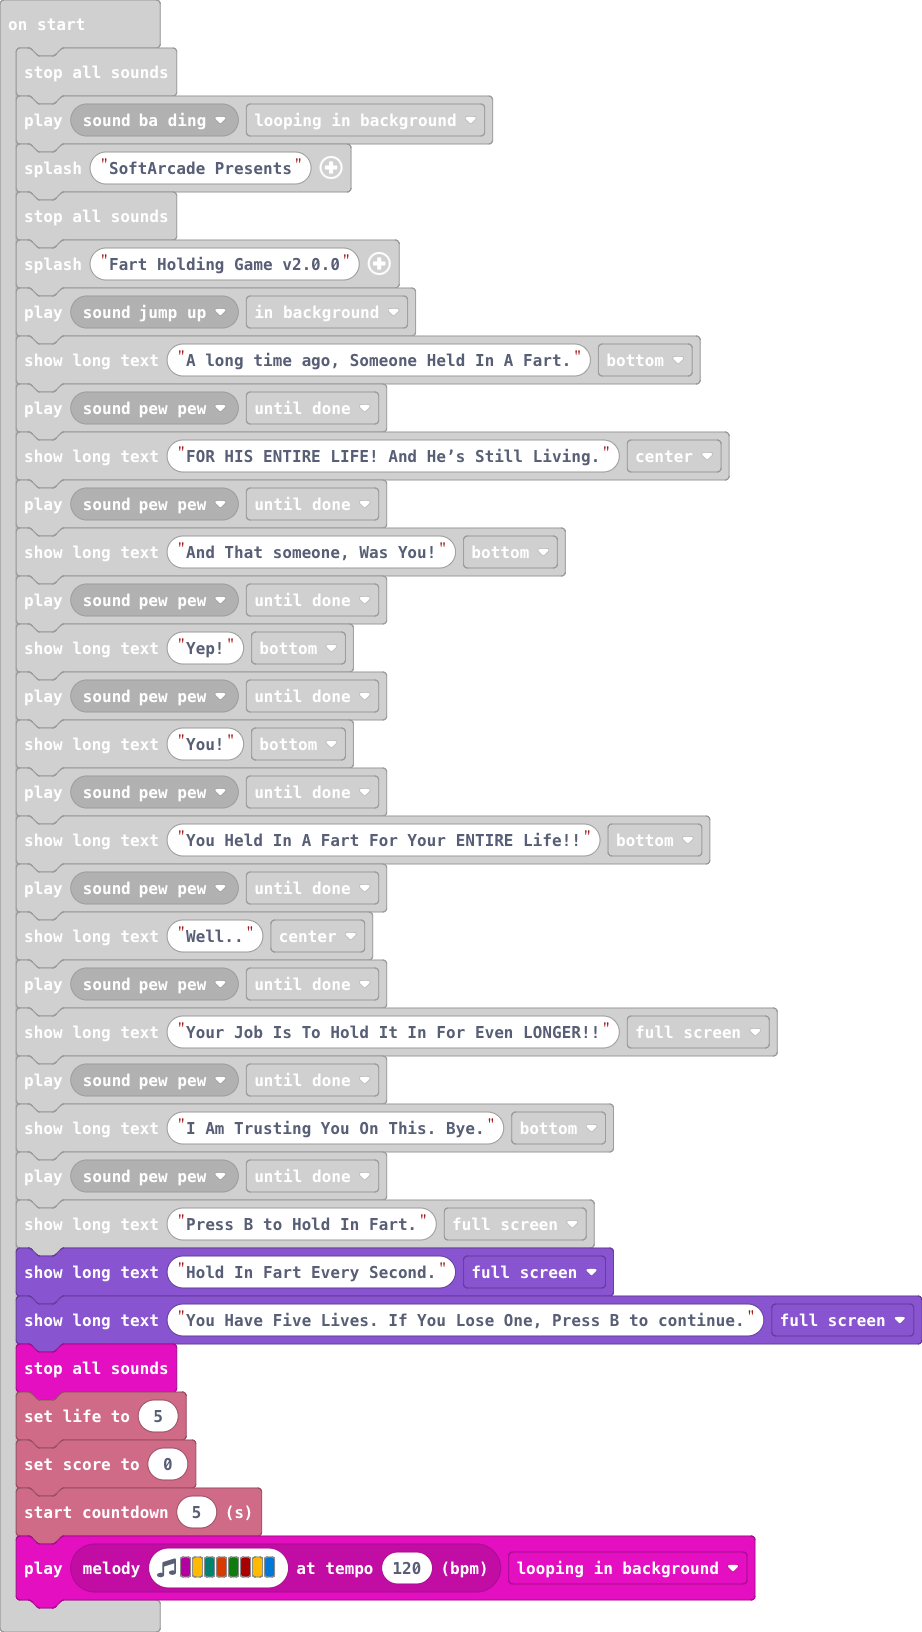
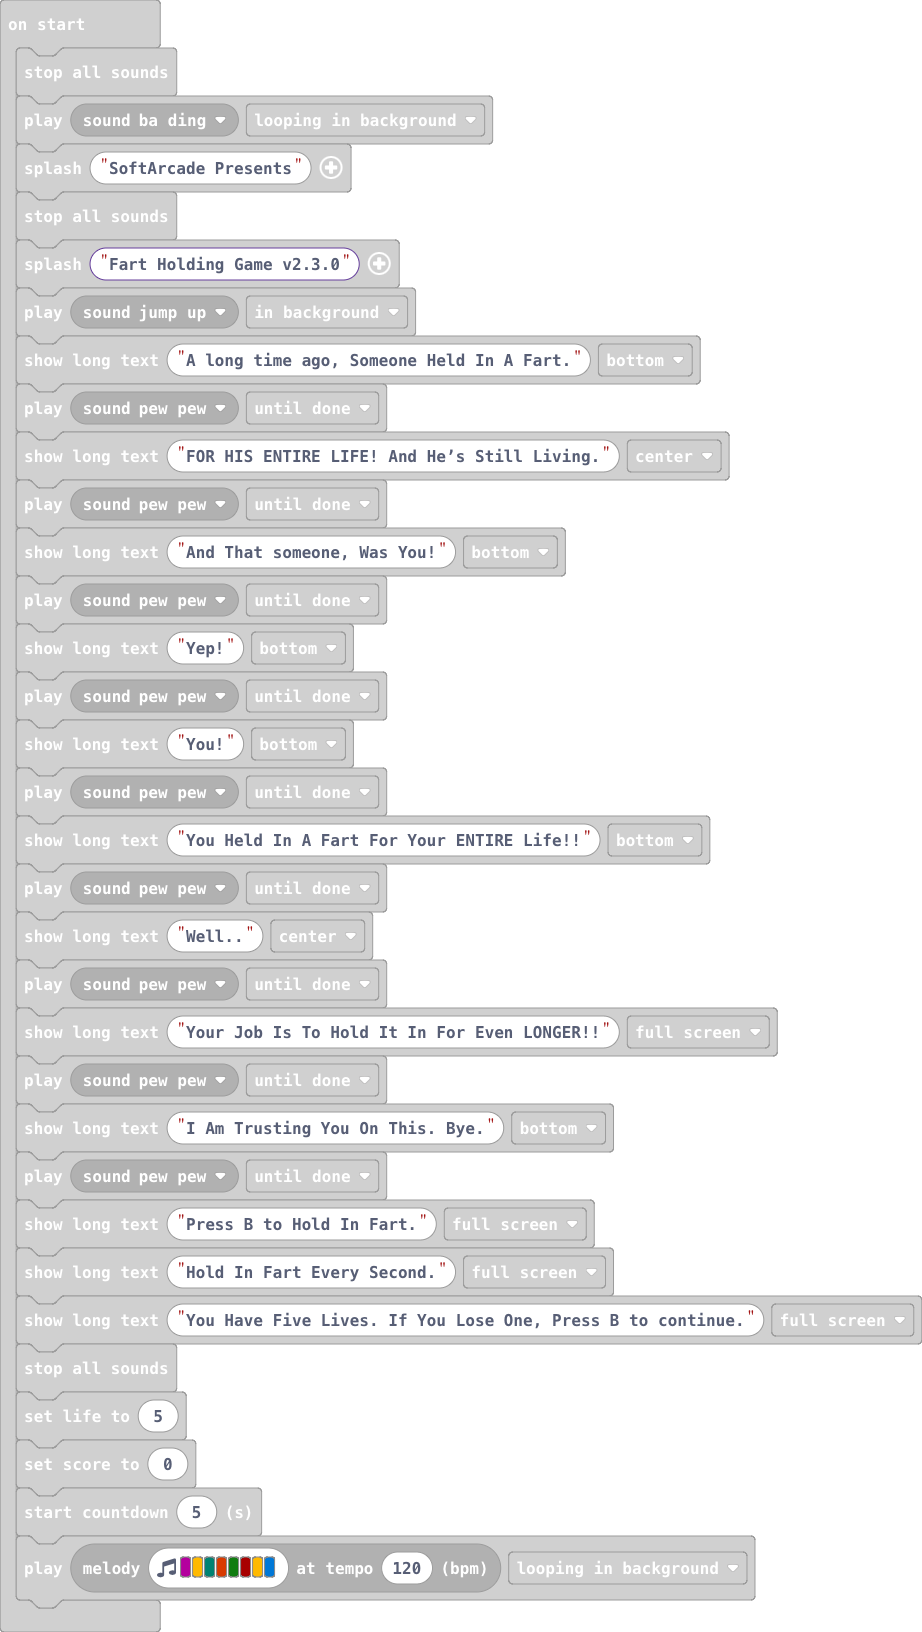
Update main.blocks, main.ts

Changed region(s): [[0.0, 0.75, 1.0, 1.0]]

diff --git a/main.ts b/main.ts
@@ -17,7 +17,7 @@ music.stopAllSounds()
 music.play(music.melodyPlayable(music.baDing), music.PlaybackMode.LoopingInBackground)
 game.splash("SoftArcade Presents")
 music.stopAllSounds()
-game.splash("Fart Holding Game v2.0.0")
+game.splash("Fart Holding Game v2.3.0")
 music.play(music.melodyPlayable(music.jumpUp), music.PlaybackMode.InBackground)
 game.showLongText("A long time ago, Someone Held In A Fart.", DialogLayout.Bottom)
 music.play(music.melodyPlayable(music.pewPew), music.PlaybackMode.UntilDone)
